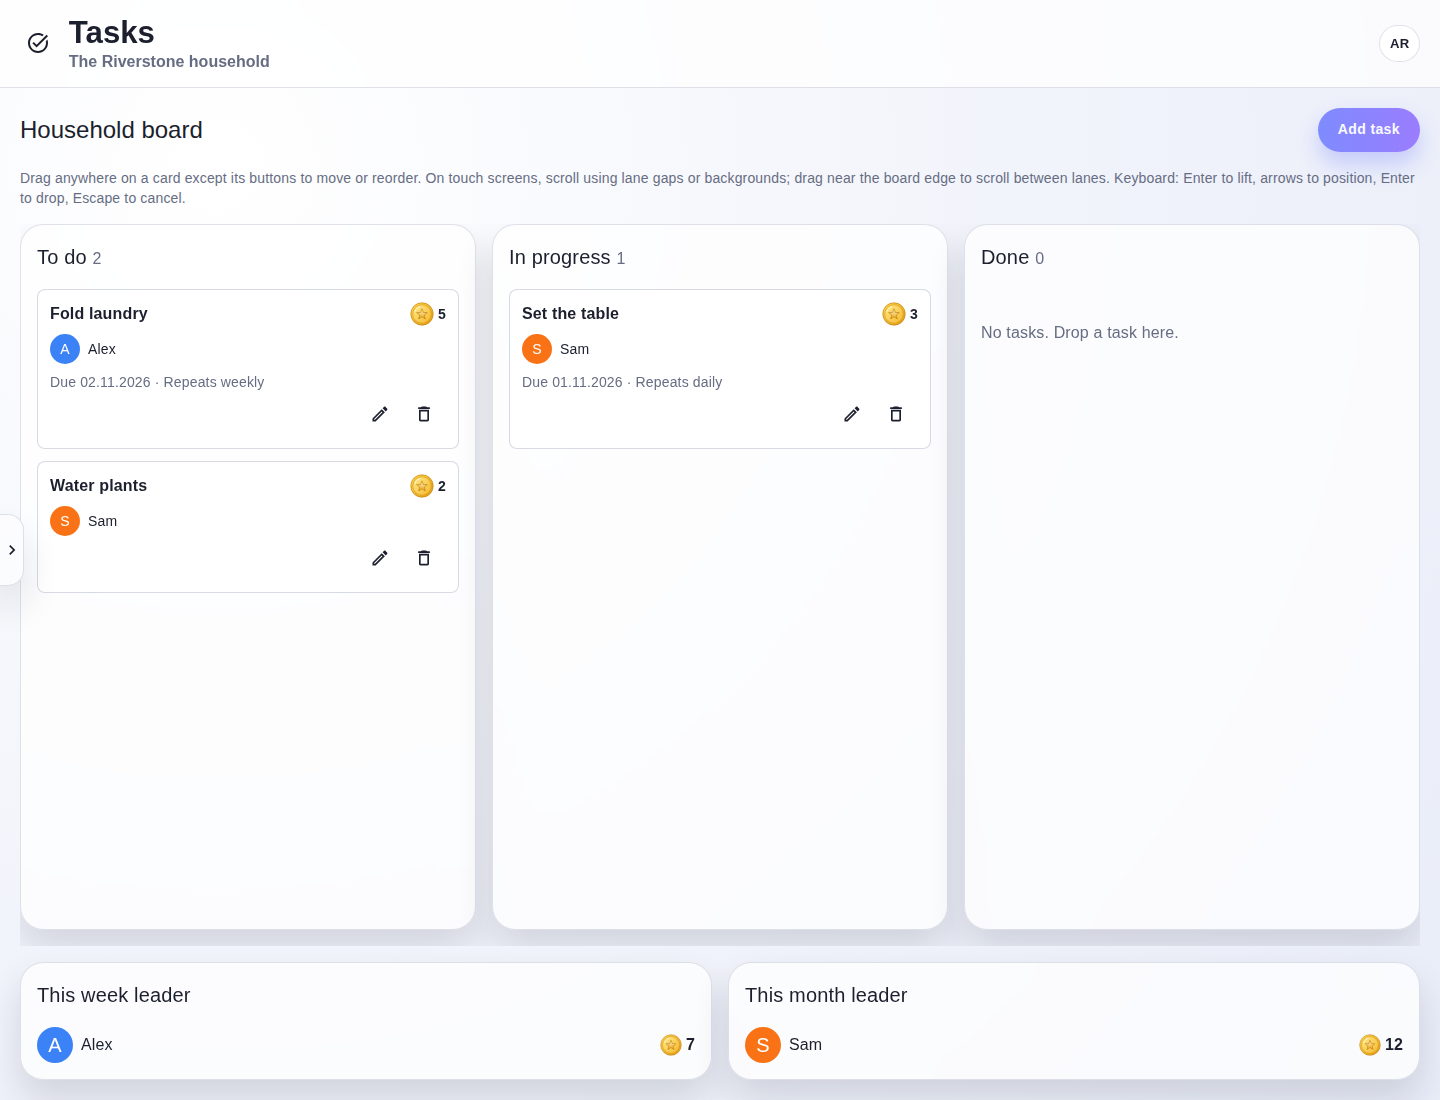
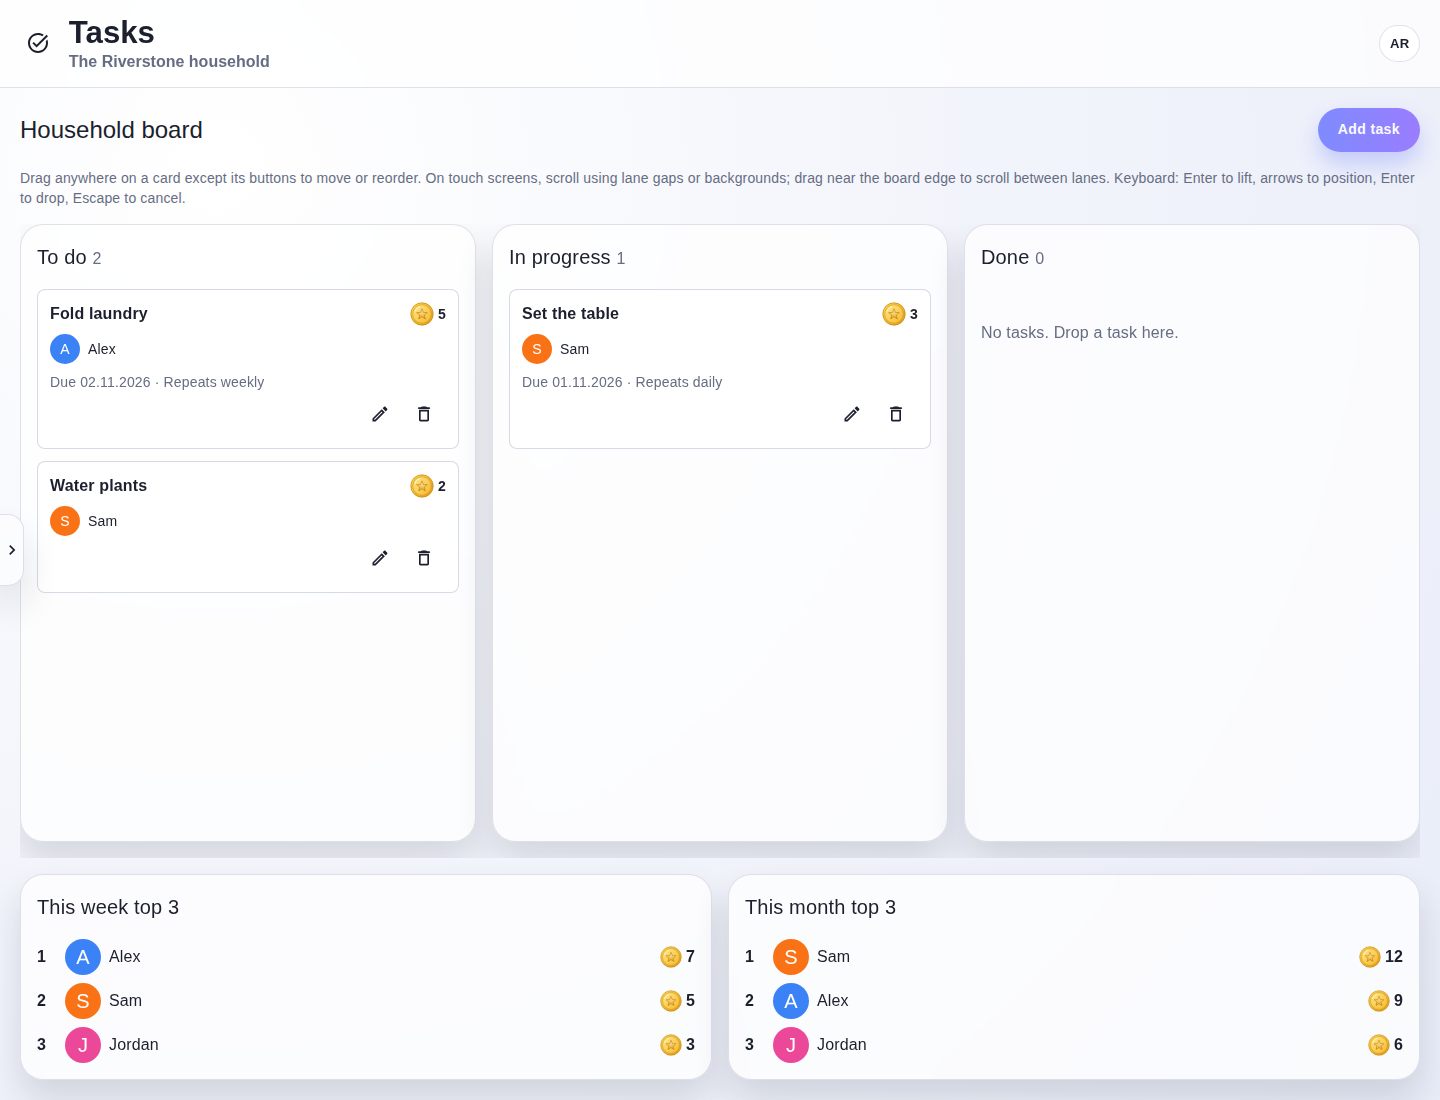
Show top-three coin leaders and generalize ledger

Changed region(s): [[0.0, 0.7418, 1.0, 0.9891]]

diff --git a/api/tasks.test.js b/api/tasks.test.js
@@ -15,6 +15,8 @@ const id = "00000000-0000-0000-0000-000000000004";
 const otherHousehold = "00000000-0000-0000-0000-000000000005";
 const otherMember = "00000000-0000-0000-0000-000000000006";
 const secondMember = "00000000-0000-0000-0000-000000000007";
+const thirdMember = "00000000-0000-0000-0000-000000000008";
+const fourthMember = "00000000-0000-0000-0000-000000000009";
 const task = { title: "Clean room", memberId, coins: 5, dueDate: "2026-11-01", repeatRule: "none" };
 const emptyLeaderboard = { week: [], month: [] };
 const invoke = async (handler, method, body, resource, query, household = householdId) => {
@@ -183,12 +185,26 @@ test("PostgreSQL Tasks transactions, coin earnings, recurrence, optimistic concu
     create table public.households(id uuid primary key, created_by_user_id uuid not null);
     create table public.household_members(id uuid primary key, household_id uuid not null references public.households(id) on delete cascade,
       first_name text not null, avatar_color text);
+    create table public.household_task_coin_earnings (
+      id uuid primary key default gen_random_uuid(), household_id uuid not null references public.households(id) on delete cascade,
+      task_id uuid not null, series_id uuid, member_id uuid not null, member_name text not null, avatar_color text,
+      task_title text not null, coins integer not null, period_start date not null, earned_at timestamptz not null default now()
+    );
+    create unique index household_task_coin_earnings_task on public.household_task_coin_earnings (household_id, task_id);
+    create unique index household_task_coin_earnings_series_period
+      on public.household_task_coin_earnings (household_id, series_id, period_start) where series_id is not null;
+    create index household_task_coin_earnings_period
+      on public.household_task_coin_earnings (household_id, earned_at, member_id);
     create table public.tasks(id uuid primary key, title text not null);
     insert into public.tasks values ('${id}', 'Unowned legacy global task');
     alter table public.tasks enable row level security;
     insert into public.households values ('${householdId}', '${ownerId}'), ('${otherHousehold}', '${otherHousehold}');
     insert into public.household_members values ('${memberId}', '${householdId}', 'Alex', '#3b82f6'),
-      ('${secondMember}', '${householdId}', 'Sam', '#f97316'), ('${otherMember}', '${otherHousehold}', 'Other', '#7c3aed');
+      ('${secondMember}', '${householdId}', 'Sam', '#f97316'), ('${thirdMember}', '${householdId}', 'Jordan', '#ec4899'),
+      ('${fourthMember}', '${householdId}', 'Casey', '#7c3aed'), ('${otherMember}', '${otherHousehold}', 'Other', '#7c3aed');
+    insert into public.household_task_coin_earnings
+      (household_id, task_id, member_id, member_name, avatar_color, task_title, coins, period_start)
+      values ('${householdId}', '${id}', '${memberId}', 'Alex', '#3b82f6', 'Migrated earning', 1, current_date);
     grant select on public.households to authenticated;
   `);
   for (let run = 0; run < 2; run++) execFileSync("psql", [...args, "-d", database], {
@@ -212,10 +228,13 @@ test("PostgreSQL Tasks transactions, coin earnings, recurrence, optimistic concu
     const current = (await snapshot()).find((card) => card.id === taskId);
     return mutate("move", { id: taskId, revision: current.revision, status, beforeId });
   };
-  const clear = () => sql("delete from public.household_task_coin_earnings; delete from public.household_tasks");
+  const clear = () => sql("delete from public.household_coin_earnings; delete from public.household_tasks");
 
   await t.test("migration leaves incompatible global Tasks untouched, inaccessible and entirely outside the new API", async () => {
     assert.equal(sql("select count(*) from information_schema.columns where table_schema = 'public' and table_name = 'tasks'"), "2");
+    assert.equal(sql("select to_regclass('public.household_task_coin_earnings') is null"), "t");
+    assert.equal(sql(`select source_type || ':' || source_id::text || ':' || source_label
+      from public.household_coin_earnings where source_id = '${id}'`), `task:${id}:Migrated earning`);
     assert.deepEqual(await snapshot(), []);
     assert.equal(command("update", { ...task, id, revision: 0 }).status, 404);
     assert.equal(command("delete", { id, revision: 0 }).status, 404);
@@ -366,7 +385,7 @@ test("PostgreSQL Tasks transactions, coin earnings, recurrence, optimistic concu
     assert.equal(editedRows.find((card) => card.id !== editable).dueDate, "2026-11-02");
   });
 
-  await t.test("coin earnings persist once per occurrence and weekly/monthly leaderboards include ties", async () => {
+  await t.test("coin earnings persist once per occurrence and leaderboards show the top three including ties", async () => {
     clear();
     const recurring = await create({ repeatRule: "weekly" });
     await move(recurring, "done");
@@ -375,19 +394,32 @@ test("PostgreSQL Tasks transactions, coin earnings, recurrence, optimistic concu
 
     const second = await create({ memberId: secondMember });
     await move(second, "done");
+    const third = await create({ memberId: thirdMember, coins: 3 });
+    await move(third, "done");
+    const fourth = await create({ memberId: fourthMember, coins: 2 });
+    await move(fourth, "done");
     const expected = [
       { memberId, firstName: "Alex", avatarColor: "#3b82f6", coins: 5 },
       { memberId: secondMember, firstName: "Sam", avatarColor: "#f97316", coins: 5 },
+      { memberId: thirdMember, firstName: "Jordan", avatarColor: "#ec4899", coins: 3 },
     ];
     const leaders = command("read").leaderboard;
     assert.deepEqual(leaders.week, expected);
     assert.deepEqual(leaders.month, expected);
-    assert.equal(sql("select count(*) from public.household_task_coin_earnings"), "2");
+    assert.equal(sql("select count(*) from public.household_coin_earnings"), "4");
+    sql(`insert into public.household_coin_earnings
+      (household_id, source_type, source_id, member_id, member_name, source_label, coins, period_start, earned_at)
+      values ('${householdId}', 'event', '${randomUUID()}', '${fourthMember}', 'Casey', 'Birthday bonus', 1,
+        current_date, now() - interval '2 months')`);
+    assert.equal(sql(`select task_id is null and source_label = 'Birthday bonus'
+      from public.household_coin_earnings where source_type = 'event'`), "t",
+      "the generic ledger accepts non-task earnings without task-only fields");
+    assert.deepEqual(command("read").leaderboard.week, expected, "only earnings in the current week count");
 
     await mutate("update", { ...task, id: recurring, revision: 1, repeatRule: "weekly", coins: 10, status: "done" });
     assert.deepEqual(command("read").leaderboard.week, expected, "later task edits do not rewrite earned coins");
     await mutate("delete", { id: second, revision: 1 });
-    assert.equal(sql(`select coins from public.household_task_coin_earnings where task_id = '${second}'`), "5",
+    assert.equal(sql(`select coins from public.household_coin_earnings where task_id = '${second}'`), "5",
       "deleting a task does not delete its earnings record");
   });
 

diff --git a/frontend/src/pages/TasksPage.stories.tsx b/frontend/src/pages/TasksPage.stories.tsx
@@ -46,8 +46,16 @@ function installMock(options: MockOptions = {}) {
       return response({
         tasks: url.pathname.includes("/other/") ? [] : tasks,
         leaderboard: {
-          week: [{ memberId: "alex", firstName: "Alex", avatarColor: "#3b82f6", coins: 7 }],
-          month: [{ memberId: "sam", firstName: "Sam", avatarColor: "#f97316", coins: 12 }],
+          week: [
+            { memberId: "alex", firstName: "Alex", avatarColor: "#3b82f6", coins: 7 },
+            { memberId: "sam", firstName: "Sam", avatarColor: "#f97316", coins: 5 },
+            { memberId: "jordan", firstName: "Jordan", avatarColor: "#ec4899", coins: 3 },
+          ],
+          month: [
+            { memberId: "sam", firstName: "Sam", avatarColor: "#f97316", coins: 12 },
+            { memberId: "alex", firstName: "Alex", avatarColor: "#3b82f6", coins: 9 },
+            { memberId: "jordan", firstName: "Jordan", avatarColor: "#ec4899", coins: 6 },
+          ],
         },
       });
     }
@@ -186,12 +194,18 @@ export const TaskCoinLeaderboards: Story = {
   play: async ({ canvasElement }) => {
     const canvas = await ready(canvasElement);
     const region = canvas.getByRole("region", { name: "Task leaderboards" });
-    const week = within(region).getByRole("region", { name: "This week leader" });
-    const month = within(region).getByRole("region", { name: "This month leader" });
+    const week = within(region).getByRole("region", { name: "This week top 3 leader" });
+    const month = within(region).getByRole("region", { name: "This month top 3 leader" });
     await expect(within(week).getByText("Alex")).toBeVisible();
     await expect(within(week).getByRole("img", { name: "7 coins earned" })).toBeVisible();
+    await expect(within(week).getByText("Sam")).toBeVisible();
+    await expect(within(week).getByText("Jordan")).toBeVisible();
+    await expect(within(week).getByLabelText("Rank 3")).toBeVisible();
     await expect(within(month).getByText("Sam")).toBeVisible();
     await expect(within(month).getByRole("img", { name: "12 coins earned" })).toBeVisible();
+    await expect(within(month).getByText("Alex")).toBeVisible();
+    await expect(within(month).getByText("Jordan")).toBeVisible();
+    await expect(within(month).getByLabelText("Rank 3")).toBeVisible();
   },
 };
 export const TasksDarkBoard: Story = { ...TasksBoard, parameters: { taskMock: { dark: true } } };

diff --git a/frontend/src/pages/TasksPage.tsx b/frontend/src/pages/TasksPage.tsx
@@ -186,15 +186,16 @@ function TaskSession({ householdId, householdName, accessToken, members, moduleN
         display: "grid", gridTemplateColumns: { xs: "1fr", sm: "1fr 1fr" }, gap: 2,
       }}>
         {([
-          ["This week", leaderboard.week],
-          ["This month", leaderboard.month],
+          ["This week top 3", leaderboard.week],
+          ["This month top 3", leaderboard.month],
         ] as const).map(([period, leaders]) => <Box key={period} className="settings-card" component="section" aria-label={`${period} leader`}>
-          <Typography component="h2" variant="h6" sx={{ mb: 1.5 }}>{period} leader</Typography>
+          <Typography component="h2" variant="h6" sx={{ mb: 1.5 }}>{period}</Typography>
           {leaders.length ? <Stack sx={{ gap: 1 }}>
-            {leaders.map((leader) => {
+            {leaders.map((leader, index) => {
               const member = members.find((item) => item.id === leader.memberId);
               const name = member?.firstName ?? leader.firstName;
               return <Stack key={leader.memberId} direction="row" sx={{ alignItems: "center", gap: 1 }}>
+                <Typography aria-label={`Rank ${index + 1}`} sx={{ width: 20, fontWeight: 700 }}>{index + 1}</Typography>
                 <Avatar src={member?.avatarPhotoUrl} alt={name} slotProps={{ img: { draggable: false } }}
                   sx={{ bgcolor: normalizeMemberColor(member?.avatarColor ?? leader.avatarColor ?? undefined), width: 36, height: 36 }}>
                   {name.charAt(0)}

diff --git a/docs/modules/ARCHITECTURE.md b/docs/modules/ARCHITECTURE.md
@@ -102,13 +102,13 @@ The API base is `/api/households/{householdId}/tasks`; all access requires the e
 
 | Method/resource | Behavior |
 | --- | --- |
-| `GET` base | Returns `{ tasks, leaderboard }`, ordered by status, persisted position, and ID. Leaderboard entries include all tied leaders for the current UTC week and month. Optional `memberId`, `status` (including `open`), and paired inclusive `startDate`/`endDate` filters support future projections. Date-filtered reads exclude undated tasks. |
+| `GET` base | Returns `{ tasks, leaderboard }`, ordered by status, persisted position, and ID. The leaderboard returns the top three members by coins for the current UTC week and month, with member ID as the tie-breaker. Optional `memberId`, `status` (including `open`), and paired inclusive `startDate`/`endDate` filters support future projections. Date-filtered reads exclude undated tasks. |
 | `POST` base | Creates `{ title, memberId, coins, dueDate, repeatRule }`; optional client UUID `id` supports retry identity. |
 | `PUT` base | Edits a task using `{ id, revision, title, memberId, coins, dueDate, repeatRule }`. |
 | `DELETE` base | Deletes an occurrence using `{ id, revision }`, not an entire series. |
 | `POST move` | Moves `{ id, revision, status, beforeId }`; a null/omitted `beforeId` appends, otherwise inserts before a same-household card in the destination column. |
 
-Commands execute atomically through the provider's database function; positions are recalculated under a household lock. Expected revisions reject stale task edits rather than silently overwriting them. Completion stores an immutable coin earning with task/member snapshots; an occurrence is only awarded once, and a recurring series can be completed once per UTC day/week. The first transition of a daily/weekly occurrence to Done creates one next occurrence, copied from its current reward/assignee/title and dated one/seven calendar days after its due date. No catch-up horizon or timer is implemented: only the next occurrence is generated. See [data model](../DATA_MODEL.md#tasks) for recurrence and history rules.
+Commands execute atomically through the provider's database function; positions are recalculated under a household lock. Expected revisions reject stale task edits rather than silently overwriting them. Completion stores an immutable coin earning with task/member snapshots in a generic household earnings ledger; an occurrence is only awarded once, and a recurring series can be completed once per UTC day/week. The first transition of a daily/weekly occurrence to Done creates one next occurrence, copied from its current reward/assignee/title and dated one/seven calendar days after its due date. No catch-up horizon or timer is implemented: only the next occurrence is generated. See [data model](../DATA_MODEL.md#tasks) for recurrence and history rules.
 
 Spendable coin balances, cross-module outbox, Calendar rendering, and agent tools are not added. The future integration contracts above remain design guidance, not shipped behavior.
 

diff --git a/docs/DATA_MODEL.md b/docs/DATA_MODEL.md
@@ -24,7 +24,7 @@ Tasks uses `public.household_tasks`, not the legacy global `public.tasks` table.
 - `dueDate` is an optional inclusive date-only value for single tasks and required for daily/weekly tasks. `repeatRule` is `none`, `daily`, or `weekly`; it is deliberately not a calendar-event RRULE.
 - A recurring series has a stable `seriesId`; occurrences remain independently editable and completed cards are retained. Completing an occurrence first generates one next dated occurrence in To do. Reopening/re-completing never generates another successor. Repeat rules cannot change after an occurrence's first completion, including after reopening a single task; edit the next open occurrence instead. Editing one occurrence does not rewrite existing successors, and deleting an occurrence does not delete a series.
 - `completedAt` records completion; `revision` supports compare-and-swap edits/moves/deletes. Recurrence-generation state is persisted transactionally with completion, so retries cannot duplicate the next occurrence. Each daily series may be completed once per UTC day and each weekly series once per UTC week.
-- `public.household_task_coin_earnings` is an immutable household-scoped completion ledger. It snapshots the completed task, assigned member, coin amount, series, and earned timestamp; an occurrence is recorded once, and recurring series cannot earn twice in the same UTC day/week. The task read returns all tied leaders for the current UTC week and month from this history.
+- `public.household_coin_earnings` is an immutable, source-neutral household ledger. `sourceType`/`sourceId` identify the earning source, while task earnings also snapshot the occurrence, task label, assigned member, coin amount, series, and earned timestamp. An occurrence is recorded once, and recurring series cannot earn twice in the same UTC day/week. The task read returns the top three earners for the current UTC week and month, ordered by coins then member ID.
 - Composite member references enforce household isolation and prevent deleting/transferring a referenced member without first reassigning or deleting its tasks. Household deletion cascades task records.
 
 Moves, recurrence creation, and coin recording are atomic database commands serialized per household. Reads support member, open/status, and paired inclusive due-date range filters (up to 367 inclusive days); indexes support future Calendar queries. Undated tasks are excluded when a date range is requested. RLS permits owner-scoped task reads, while writes and ledger access go exclusively through the server-only transactional command. Spendable coin balances, event/outbox infrastructure, and Calendar events are not stored or modified by this module.

diff --git a/docs/PRODUCT_OVERVIEW.md b/docs/PRODUCT_OVERVIEW.md
@@ -70,7 +70,7 @@ See [Shop & Cook integration](modules/ARCHITECTURE.md#shop--cook-implementation)
 
 The Tasks workspace supports creating, editing, and deleting household tasks assigned to one family member, with a non-negative integer coin reward and an optional due date. Cards show the title, top-right coin reward, and member avatar. Drag anywhere on a card (except its edit/delete controls) with a mouse or touch to move between **To do**, **In progress**, and **Done**, or reorder within a column; keyboard controls on the focused card provide the same operations. Board state and ordering persist through the household-scoped API.
 
-Tasks can be single, daily, or weekly. Recurring tasks require a due date. The first completion preserves the completed occurrence and creates the next dated occurrence in To do; reopening and completing it again does not create another copy. Each daily series can be completed only once per UTC day and each weekly series only once per UTC week. Completion records an immutable coin earning, and the board footer shows the current UTC week and month leaders, including ties. Recurrence is date-based, not an elapsed-hours timer, and no background job is required.
+Tasks can be single, daily, or weekly. Recurring tasks require a due date. The first completion preserves the completed occurrence and creates the next dated occurrence in To do; reopening and completing it again does not create another copy. Each daily series can be completed only once per UTC day and each weekly series only once per UTC week. Completion records an immutable coin earning in the generic household ledger, and the board footer shows the top three current UTC week and month earners. Recurrence is date-based, not an elapsed-hours timer, and no background job is required.
 
 Spendable coin balances/payouts, Calendar indicators, and agent task workflows remain planned and are not shipped. Open-task reads already support inclusive date-range and member filters for later Calendar integration. See [Tasks implementation](modules/ARCHITECTURE.md#tasks-implementation), [task data model](DATA_MODEL.md#tasks), and [migration setup](SUPABASE.md#tasks).
 

diff --git a/docs/SUPABASE.md b/docs/SUPABASE.md
@@ -25,7 +25,7 @@ Metadata/settings and local-list handlers defer SDK loading, so an optional clie
 
 ## Tasks
 
-After the core household schema and `docs/sql/core-access-policy.sql`, run `docs/sql/tasks.sql` in the Supabase SQL Editor before deploying the updated API/frontend. It creates household-scoped task and coin-earning history, indexes, access policies, and the transactional command used for edits, ordering, recurrence, awards, and leaderboard reads. No new Azure resources, packages, timers, or secrets are required.
+After the core household schema and `docs/sql/core-access-policy.sql`, run `docs/sql/tasks.sql` in the Supabase SQL Editor before deploying the updated API/frontend. It creates household-scoped task storage and a source-neutral coin-earning ledger, indexes, access policies, and the transactional command used for edits, ordering, recurrence, awards, and leaderboard reads. It also upgrades the task-specific coin ledger if the previous version was applied. No new Azure resources, packages, timers, or secrets are required.
 
 Existing global `public.tasks` records are deliberately not migrated: they lack trustworthy household ownership. The new API never reads them. The migration is repeatable and does not change existing calendar data. Task assignment references a member in the same household; reassign/delete that member's tasks before deleting or transferring the member.
 

diff --git a/CHANGELOG.md b/CHANGELOG.md
@@ -2,7 +2,7 @@
 
 ## Unreleased
 
-- Added an immutable task coin-earnings ledger, daily/weekly recurrence period limits, and current week/month leaderboards on the Tasks board. Updated screenshot: `docs/screenshots/tasks-leaderboard.png`.
+- Added an immutable, source-neutral household coin-earnings ledger, daily/weekly recurrence period limits, and top-three current week/month leaderboards on the Tasks board. Updated screenshot: `docs/screenshots/tasks-leaderboard.png`.
 
 - Reorganized the mobile Tasks board into In progress, To do, and Done lanes, added compact card status badges, and enabled status changes when editing tasks. Updated screenshot: `docs/screenshots/tasks-kanban-mobile.png`.
 
